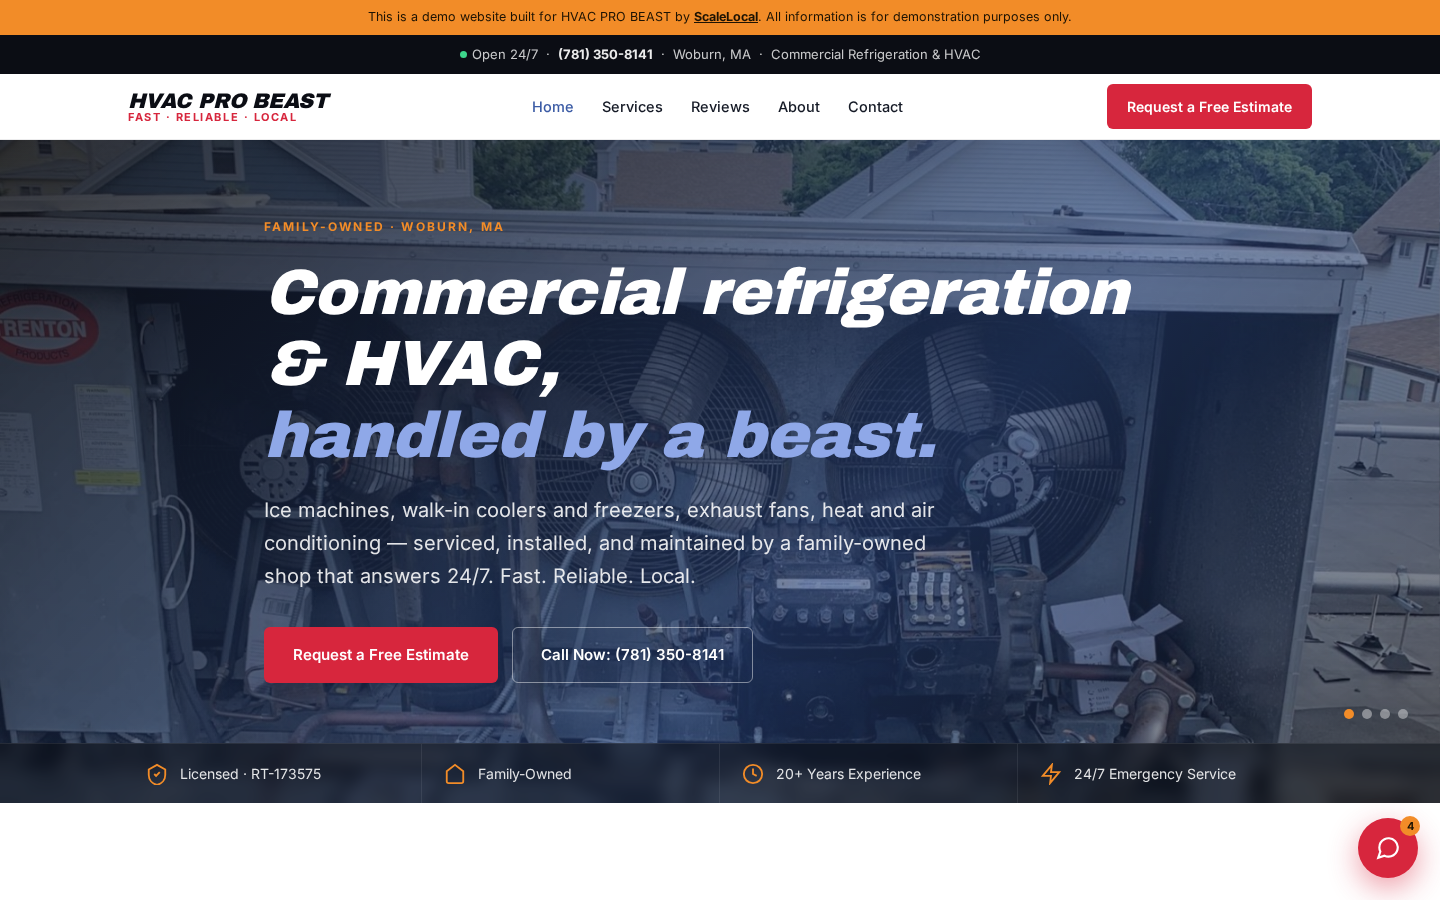
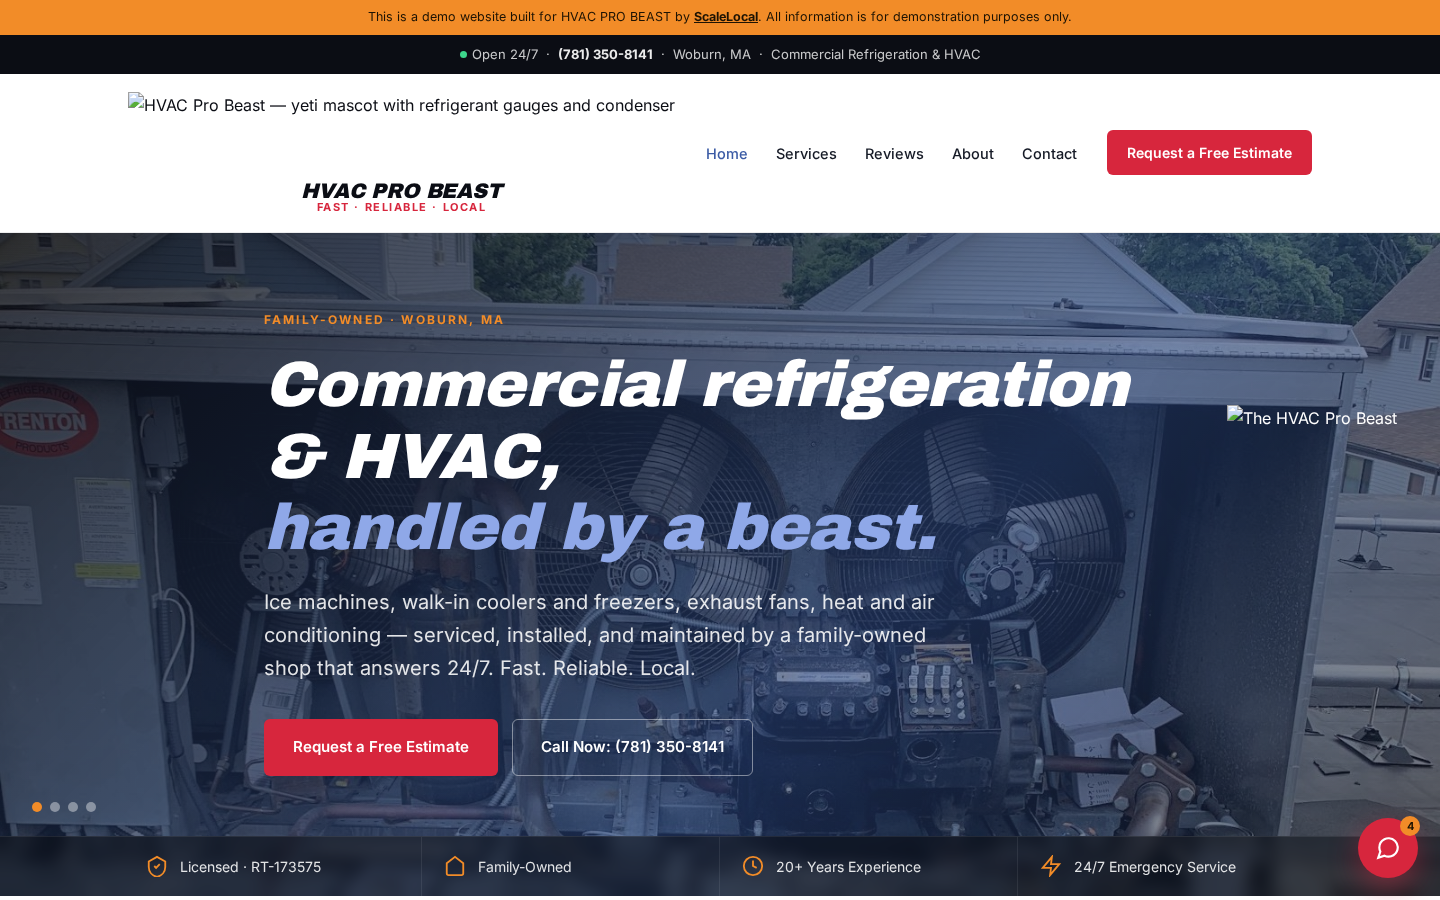
HVAC Pro Beast: fix beast SVG XML, beast on inner-page heroes, star rating badge redesign, sizing pass

diff --git a/test-builds/hvac-pro-beast/reviews.html b/test-builds/hvac-pro-beast/reviews.html
@@ -21,11 +21,14 @@
 <nav><ul id="navmenu"><li><a href="index.html">Home</a></li><li><a href="services.html">Services</a></li><li><a href="reviews.html" class="active">Reviews</a></li><li><a href="about.html">About</a></li><li><a href="contact.html">Contact</a></li></ul></nav><a href="contact.html#estimate" class="nav-cta">Request a Free Estimate</a>
 <button class="menu-toggle" aria-label="Toggle menu" onclick="document.getElementById('navmenu').classList.toggle('open')"><span></span></button>
 </div></header>
-<section class="sub-hero has-photo" style="background-image:url('images/subhero.jpg')"><div class="container">
+<section class="sub-hero has-photo" style="background-image:url('images/subhero.jpg')"><img class="subhero-beast" src="images/beast-full.svg" alt=""><div class="container">
 <div class="crumbs"><a href="index.html">Home</a> · Reviews</div>
 <span class="eyebrow">5.0 on Google</span><h1>Take their word for it.</h1><p>Every quote below is a real Google review of HVAC Pro Beast, word for word.</p>
 </div></section><section class="s reviews"><div class="container">
-<div class="rating-banner"><span class="score">5.0</span><span class="stars">&#9733;&#9733;&#9733;&#9733;&#9733;</span><span class="count">Google rating &middot; 11 reviews &middot; verified June 2026</span></div>
+<div class="rating-card" role="img" aria-label="Rated 5.0 out of 5 on Google across 11 reviews">
+<div class="rc-left"><span class="rc-score">5.0</span><span class="rc-stars" aria-hidden="true"><svg viewBox="0 0 24 24" fill="currentColor"><path d="M12 2l2.9 6.26L21.5 9.27l-4.75 4.36L18.18 21 12 17.27 5.82 21l1.43-7.37L2.5 9.27l6.6-1.01z"/></svg><svg viewBox="0 0 24 24" fill="currentColor"><path d="M12 2l2.9 6.26L21.5 9.27l-4.75 4.36L18.18 21 12 17.27 5.82 21l1.43-7.37L2.5 9.27l6.6-1.01z"/></svg><svg viewBox="0 0 24 24" fill="currentColor"><path d="M12 2l2.9 6.26L21.5 9.27l-4.75 4.36L18.18 21 12 17.27 5.82 21l1.43-7.37L2.5 9.27l6.6-1.01z"/></svg><svg viewBox="0 0 24 24" fill="currentColor"><path d="M12 2l2.9 6.26L21.5 9.27l-4.75 4.36L18.18 21 12 17.27 5.82 21l1.43-7.37L2.5 9.27l6.6-1.01z"/></svg><svg viewBox="0 0 24 24" fill="currentColor"><path d="M12 2l2.9 6.26L21.5 9.27l-4.75 4.36L18.18 21 12 17.27 5.82 21l1.43-7.37L2.5 9.27l6.6-1.01z"/></svg></span></div>
+<div class="rc-right"><span class="rc-line">Google rating</span><span class="rc-sub">11 reviews &middot; verified June 2026</span></div>
+</div>
 <div class="rv-grid"><article class="rv-card"><div class="rv-stars" aria-label="5 stars">&#9733;&#9733;&#9733;&#9733;&#9733;</div>
 <p class="rv-text">&ldquo;Tom is incredibly knowledgeable. He is straightforward, genuinely cares for his customers and provides quality service. It's rare to find someone like him. I can't recommend HVAC pro beast enough!&rdquo;</p>
 <div class="rv-meta"><span class="rv-name">&mdash; Alexa F.</span><span class="rv-source">Google review</span></div></article><article class="rv-card"><div class="rv-stars" aria-label="5 stars">&#9733;&#9733;&#9733;&#9733;&#9733;</div>

diff --git a/test-builds/hvac-pro-beast/css/site.css b/test-builds/hvac-pro-beast/css/site.css
@@ -79,7 +79,7 @@ nav a:hover,nav a.active{color:var(--beast-blue)}
 .hm-item:last-child{border-right:none}
 .hm-item svg{flex-shrink:0;width:22px !important;height:22px !important;color:var(--beast-orange)}
 
-.sub-hero{position:relative;background:var(--ink);color:#fff;padding:84px 0 64px;background-size:cover;background-position:center}
+.sub-hero{position:relative;background:var(--ink);color:#fff;padding:64px 0 56px;background-size:cover;background-position:center;overflow:hidden}
 .sub-hero.has-photo::before{content:"";position:absolute;inset:0;background:linear-gradient(135deg,rgba(11,13,20,.86),rgba(42,67,120,.66))}
 .sub-hero .container{position:relative;z-index:2}
 .sub-hero h1{color:#fff;font-size:clamp(30px,4vw,52px);margin:14px 0 14px;font-style:italic}
@@ -144,10 +144,15 @@ section.s.tight{padding:64px 0}
 .town-card p{font-size:13px;color:var(--ink-3);margin-top:4px}
 
 .reviews{background:var(--frost-50)}
-.rating-banner{display:flex;align-items:center;justify-content:center;gap:14px;margin-bottom:36px;flex-wrap:wrap}
-.rating-banner .stars{color:var(--beast-orange);font-size:24px;letter-spacing:3px}
-.rating-banner .score{font-family:'Archivo Black',sans-serif;font-size:28px;font-style:italic}
-.rating-banner .count{color:var(--ink-3);font-size:14.5px}
+.rating-card{display:flex;align-items:center;justify-content:center;gap:22px;background:#fff;border:1px solid var(--frost-100);border-radius:14px;box-shadow:var(--shadow-md);padding:22px 34px;width:fit-content;margin:0 auto 40px}
+.rc-left{display:flex;align-items:center;gap:14px}
+.rc-score{font-family:'Archivo Black',sans-serif;font-style:italic;font-size:44px;line-height:1;color:var(--ink)}
+.rc-stars{display:flex;gap:3px;color:var(--beast-orange)}
+.rc-stars svg{width:26px;height:26px}
+.rc-right{display:flex;flex-direction:column;border-left:1px solid var(--frost-100);padding-left:22px}
+.rc-line{font-weight:700;font-size:15px;color:var(--ink)}
+.rc-sub{font-size:13px;color:var(--frost-600)}
+@media(max-width:480px){.rating-card{flex-direction:column;gap:10px;text-align:center;padding:20px}.rc-right{border-left:none;padding-left:0;align-items:center}}
 .rv-grid{display:grid;grid-template-columns:repeat(2,1fr);gap:22px}
 .rv-card{background:#fff;border:1px solid var(--frost-100);border-radius:8px;padding:28px}
 .rv-stars{color:var(--beast-orange);font-size:16px;letter-spacing:2px;margin-bottom:12px}
@@ -274,3 +279,7 @@ footer a:hover{color:#fff}
 .cta-beast{height:170px;margin:0 auto 20px;display:block}
 @media(max-width:1024px){.hero-beast{height:46%;right:2vw;opacity:.95}}
 @media(max-width:720px){.hero-beast{display:none}.brand .beast-mark{height:60px}.cta-beast{height:130px}}
+
+.subhero-beast{position:absolute;right:4vw;bottom:-14px;height:82%;z-index:2;filter:drop-shadow(0 14px 34px rgba(11,13,20,.45))}
+@media(max-width:900px){.subhero-beast{height:58%;right:2vw}}
+@media(max-width:720px){.subhero-beast{display:none}}

diff --git a/test-builds/hvac-pro-beast/index.html b/test-builds/hvac-pro-beast/index.html
@@ -80,7 +80,10 @@
 
 <section class="s reviews"><div class="container">
 <div class="s-head"><span class="eyebrow">Reviews</span><h2>What business owners say.</h2><p>Real reviews from the HVAC Pro Beast Google Business Profile.</p></div>
-<div class="rating-banner"><span class="score">5.0</span><span class="stars">&#9733;&#9733;&#9733;&#9733;&#9733;</span><span class="count">Google rating &middot; 11 reviews &middot; verified June 2026</span></div>
+<div class="rating-card" role="img" aria-label="Rated 5.0 out of 5 on Google across 11 reviews">
+<div class="rc-left"><span class="rc-score">5.0</span><span class="rc-stars" aria-hidden="true"><svg viewBox="0 0 24 24" fill="currentColor"><path d="M12 2l2.9 6.26L21.5 9.27l-4.75 4.36L18.18 21 12 17.27 5.82 21l1.43-7.37L2.5 9.27l6.6-1.01z"/></svg><svg viewBox="0 0 24 24" fill="currentColor"><path d="M12 2l2.9 6.26L21.5 9.27l-4.75 4.36L18.18 21 12 17.27 5.82 21l1.43-7.37L2.5 9.27l6.6-1.01z"/></svg><svg viewBox="0 0 24 24" fill="currentColor"><path d="M12 2l2.9 6.26L21.5 9.27l-4.75 4.36L18.18 21 12 17.27 5.82 21l1.43-7.37L2.5 9.27l6.6-1.01z"/></svg><svg viewBox="0 0 24 24" fill="currentColor"><path d="M12 2l2.9 6.26L21.5 9.27l-4.75 4.36L18.18 21 12 17.27 5.82 21l1.43-7.37L2.5 9.27l6.6-1.01z"/></svg><svg viewBox="0 0 24 24" fill="currentColor"><path d="M12 2l2.9 6.26L21.5 9.27l-4.75 4.36L18.18 21 12 17.27 5.82 21l1.43-7.37L2.5 9.27l6.6-1.01z"/></svg></span></div>
+<div class="rc-right"><span class="rc-line">Google rating</span><span class="rc-sub">11 reviews &middot; verified June 2026</span></div>
+</div>
 <div class="rv-grid"><article class="rv-card"><div class="rv-stars" aria-label="5 stars">&#9733;&#9733;&#9733;&#9733;&#9733;</div>
 <p class="rv-text">&ldquo;Tom is incredibly knowledgeable. He is straightforward, genuinely cares for his customers and provides quality service. It's rare to find someone like him. I can't recommend HVAC pro beast enough!&rdquo;</p>
 <div class="rv-meta"><span class="rv-name">&mdash; Alexa F.</span><span class="rv-source">Google review</span></div></article><article class="rv-card"><div class="rv-stars" aria-label="5 stars">&#9733;&#9733;&#9733;&#9733;&#9733;</div>

diff --git a/test-builds/hvac-pro-beast/services.html b/test-builds/hvac-pro-beast/services.html
@@ -27,7 +27,7 @@
 <nav><ul id="navmenu"><li><a href="index.html">Home</a></li><li><a href="services.html" class="active">Services</a></li><li><a href="reviews.html">Reviews</a></li><li><a href="about.html">About</a></li><li><a href="contact.html">Contact</a></li></ul></nav><a href="contact.html#estimate" class="nav-cta">Request a Free Estimate</a>
 <button class="menu-toggle" aria-label="Toggle menu" onclick="document.getElementById('navmenu').classList.toggle('open')"><span></span></button>
 </div></header>
-<section class="sub-hero has-photo" style="background-image:url('images/subhero.jpg')"><div class="container">
+<section class="sub-hero has-photo" style="background-image:url('images/subhero.jpg')"><img class="subhero-beast" src="images/beast-full.svg" alt=""><div class="container">
 <div class="crumbs"><a href="index.html">Home</a> · Services</div>
 <span class="eyebrow">Service · Installs · Maintenance</span><h1>Everything we do.</h1><p>Commercial refrigeration and HVAC, end to end — straight from the services HVAC Pro Beast advertises: ice machines, walk-in coolers and freezers, exhaust fans, heat and air conditioning, and more.</p>
 </div></section><section class="s tight"><div class="container"><div class="towns-grid" style="grid-template-columns:repeat(4,1fr)"><a href="#commercial-refrigeration" class="town-card"><h3>Commercial Refrigeration</h3></a><a href="#ice-machines" class="town-card"><h3>Ice Machines</h3></a><a href="#walk-in-coolers-freezers" class="town-card"><h3>Walk-In Coolers &amp; Freezers</h3></a><a href="#commercial-hvac" class="town-card"><h3>Commercial HVAC</h3></a><a href="#mini-splits" class="town-card"><h3>Mini-Splits</h3></a><a href="#exhaust-fans" class="town-card"><h3>Exhaust Fans</h3></a><a href="#maintenance-emergency" class="town-card"><h3>Maintenance &amp; 24/7 Emergency Service</h3></a></div></div></section>

diff --git a/test-builds/hvac-pro-beast/about.html b/test-builds/hvac-pro-beast/about.html
@@ -21,7 +21,7 @@
 <nav><ul id="navmenu"><li><a href="index.html">Home</a></li><li><a href="services.html">Services</a></li><li><a href="reviews.html">Reviews</a></li><li><a href="about.html" class="active">About</a></li><li><a href="contact.html">Contact</a></li></ul></nav><a href="contact.html#estimate" class="nav-cta">Request a Free Estimate</a>
 <button class="menu-toggle" aria-label="Toggle menu" onclick="document.getElementById('navmenu').classList.toggle('open')"><span></span></button>
 </div></header>
-<section class="sub-hero has-photo" style="background-image:url('images/subhero.jpg')"><div class="container">
+<section class="sub-hero has-photo" style="background-image:url('images/subhero.jpg')"><img class="subhero-beast" src="images/beast-full.svg" alt=""><div class="container">
 <div class="crumbs"><a href="index.html">Home</a> · About</div>
 <span class="eyebrow">Family-owned · Woburn, MA</span><h1>The beast behind the name.</h1><p>A family-owned shop with 20+ years of experience, one license number, one phone number, and a habit of answering it at any hour.</p>
 </div></section><section class="s"><div class="container">

diff --git a/test-builds/hvac-pro-beast/contact.html b/test-builds/hvac-pro-beast/contact.html
@@ -21,7 +21,7 @@
 <nav><ul id="navmenu"><li><a href="index.html">Home</a></li><li><a href="services.html">Services</a></li><li><a href="reviews.html">Reviews</a></li><li><a href="about.html">About</a></li><li><a href="contact.html" class="active">Contact</a></li></ul></nav><a href="contact.html#estimate" class="nav-cta">Request a Free Estimate</a>
 <button class="menu-toggle" aria-label="Toggle menu" onclick="document.getElementById('navmenu').classList.toggle('open')"><span></span></button>
 </div></header>
-<section class="sub-hero has-photo" style="background-image:url('images/subhero.jpg')"><div class="container">
+<section class="sub-hero has-photo" style="background-image:url('images/subhero.jpg')"><img class="subhero-beast" src="images/beast-full.svg" alt=""><div class="container">
 <div class="crumbs"><a href="index.html">Home</a> · Contact</div>
 <span class="eyebrow">Get in touch</span><h1>Talk to the beast.</h1><p>Call, text, email, or send the form. Open 24 hours a day, 7 days a week — emergencies included.</p>
 </div></section><section class="s" id="estimate"><div class="container"><div class="estimate-wrap">
